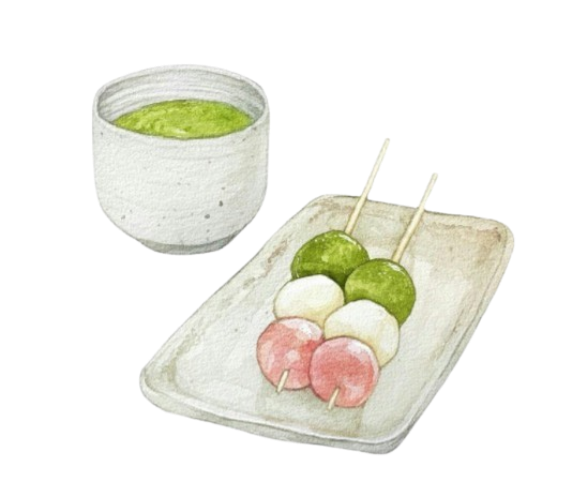
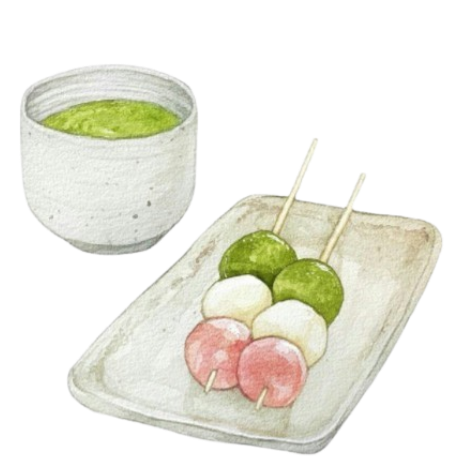
r1

diff --git a/Front-End/src/index.css b/Front-End/src/index.css
@@ -14,6 +14,7 @@ body {
   background:  var(--rosa);
 }
 
+
 /* ── menu ── */
 
 .navbar {
@@ -58,26 +59,28 @@ body {
 }
 
 .element1 {
+  position: absolute;
   height: 35rem;
  top:-40px;
- margin-left:-40rem;
+ margin-left:-35rem;
  transform: rotate(10deg);
- position: absolute;
+ 
 }
 
 .element2 {
-   position: fixed;
+   position: absolute;
   right: 10rem;  
-  top: 20rem;
-  height: 35rem;
+  top: 17rem;
+  height: 30rem;
 }
 
 .element3 {
+  position: absolute;
+  top: 200px;
+  left: 85rem;
  height: 35rem;
- top:200px;
- margin-left:70rem;
  transform: rotate(-40deg);
- position: fixed;
+ 
 }
 
 .home-hero {
@@ -86,6 +89,14 @@ body {
   justify-content: center;
   height: 80vh;
   padding-left: clamp(0.5rem, 2vw, 2rem);
+}
+
+.home-hero p {
+  font-family: var(--texto);
+  font-size: 20px;
+  margin-left: -125px;
+  margin-top: 10px;
+  margin-bottom: 10px;
 }
 
 .home-hero .t1,

diff --git a/Front-End/src/pages/Home.jsx b/Front-End/src/pages/Home.jsx
@@ -12,6 +12,7 @@ export default function Home() {
         <div className="home-hero">
           <h1 className="t1">Lotus</h1>
           <h1 className="t2">Byte</h1>
+          <p>Armazene e Administre seu estoque!</p>
             <Link to="/produtos"><button className="btn btn-primary">Produtos</button></Link>
         </div>
 